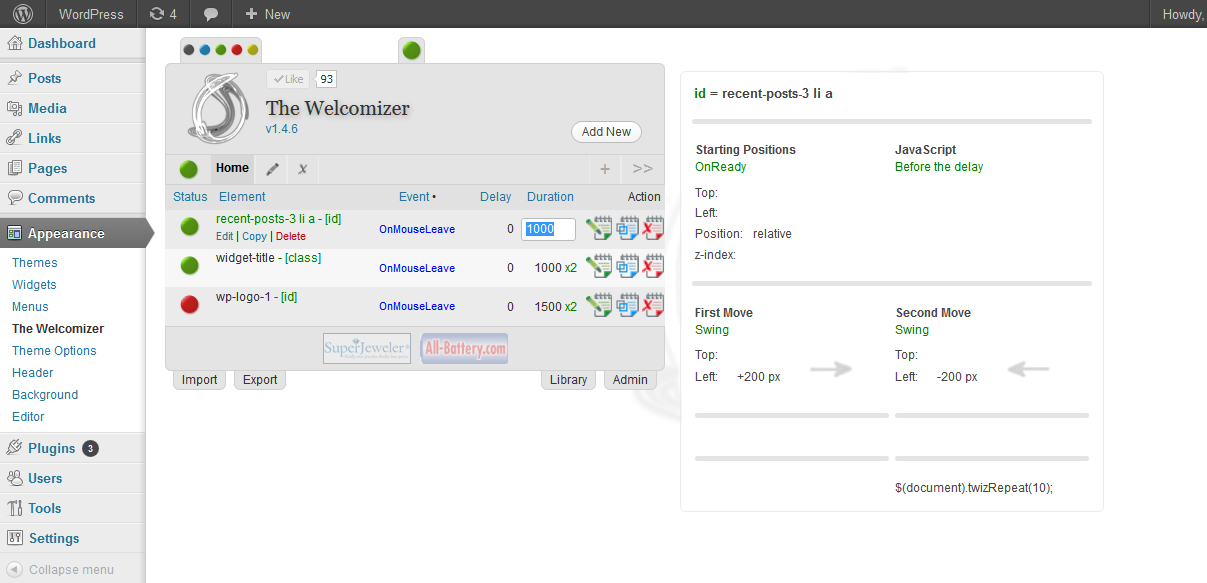
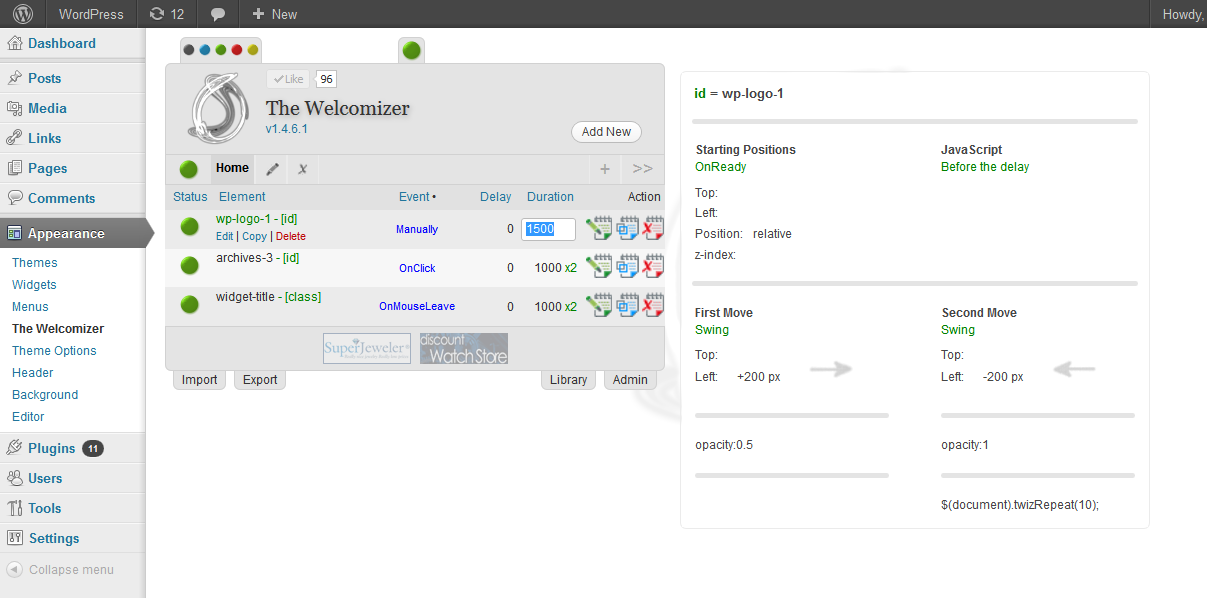
v1.4.6.1
git-svn-id: https://plugins.svn.wordpress.org/the-welcomizer/trunk@569406 b8457f37-d9ea-0310-8a92-e5e31aec5664

diff --git a/skins/blue/twiz-style.css b/skins/blue/twiz-style.css
@@ -1,5 +1,5 @@
 #wpbody-content {
-    width: 120% !important;
+    width: 150% !important;
 }
 #twiz_plugin {
     width: 98%;
@@ -81,7 +81,6 @@
 }
 #twiz_right_panel {
     min-height: 200px;
-    min-width: 415px;
     margin: 27px 0 0 15px;   
     color: #464646;
 }
@@ -656,6 +655,12 @@
 .twiz-input-large-z {
     z-index: 1;
 }
+.twiz-input-large-zz {
+    z-index: 2;
+}
+.twiz-input-large-zzz {
+    z-index: 3;
+}
 .twiz-input[type=text]:focus,
 .twiz-input-text[type=text]:focus,
 .twiz-input-small[type=text]:focus {
@@ -697,7 +702,6 @@ a.twiz-anim-link:hover ,
     margin-right: 5px;
 }
 .twiz-table-view {
-    width: 415px;
     padding: 10px;
     margin: 1px;
 }

diff --git a/skins/_default/twiz-style.css b/skins/_default/twiz-style.css
@@ -1,5 +1,5 @@
 #wpbody-content {
-    width: 120% !important;
+    width: 150% !important;
 }
 #twiz_plugin {
     width: 98%;
@@ -81,7 +81,6 @@
 }
 #twiz_right_panel {
     min-height: 200px;
-    min-width: 415px;
     margin: 27px 0 0 15px;   
     color: #464646;
 }
@@ -657,6 +656,12 @@
 .twiz-input-large-z {
     z-index: 1;
 }
+.twiz-input-large-zz {
+    z-index: 2;
+}
+.twiz-input-large-zzz {
+    z-index: 3;
+}
 .twiz-input[type=text]:focus,
 .twiz-input-text[type=text]:focus,
 .twiz-input-small[type=text]:focus {
@@ -698,7 +703,6 @@ a.twiz-anim-link:hover,
     margin-right: 5px;
 }
 .twiz-table-view {
-    width: 415px;
     padding: 10px;
     margin: 1px;
 }

diff --git a/skins/green/twiz-style.css b/skins/green/twiz-style.css
@@ -1,5 +1,5 @@
 #wpbody-content {
-    width: 120% !important;
+    width: 150% !important;
 }
 #twiz_plugin {
     width: 98%;
@@ -81,7 +81,6 @@
 }
 #twiz_right_panel {
     min-height: 200px;
-    min-width: 415px;
     margin: 27px 0 0 15px;   
     color: #464646;
 }
@@ -657,6 +656,12 @@
 .twiz-input-large-z {
     z-index: 1;
 }
+.twiz-input-large-zz {
+    z-index: 2;
+}
+.twiz-input-large-zzz {
+    z-index: 3;
+}
 .twiz-input[type=text]:focus,
 .twiz-input-text[type=text]:focus,
 .twiz-input-small[type=text]:focus {
@@ -698,7 +703,6 @@ a.twiz-anim-link:hover,
     margin-right: 5px;
 }
 .twiz-table-view {
-    width: 415px;
     padding: 10px;
     margin: 1px;
 }

diff --git a/skins/red/twiz-style.css b/skins/red/twiz-style.css
@@ -1,5 +1,5 @@
 #wpbody-content {
-    width: 120% !important;
+    width: 150% !important;
 }
 #twiz_plugin {
     width: 98%;
@@ -81,7 +81,6 @@
 }
 #twiz_right_panel {
     min-height: 200px;
-    min-width: 415px;
     margin: 27px 0 0 15px;   
     color: #464646;
 }
@@ -657,6 +656,12 @@
 .twiz-input-large-z {
     z-index: 1;
 }
+.twiz-input-large-zz {
+    z-index: 2;
+}
+.twiz-input-large-zzz {
+    z-index: 3;
+}
 .twiz-input[type=text]:focus,
 .twiz-input-text[type=text]:focus,
 .twiz-input-small[type=text]:focus {
@@ -698,7 +703,6 @@ a.twiz-anim-link:hover,
     margin-right: 5px;
 }
 .twiz-table-view {
-    width: 415px;
     padding: 10px;
     margin: 1px;
 }

diff --git a/skins/yellow/twiz-style.css b/skins/yellow/twiz-style.css
@@ -1,5 +1,5 @@
 #wpbody-content {
-    width: 120% !important;
+    width: 150% !important;
 }
 #twiz_plugin {
     width: 98%;
@@ -81,7 +81,6 @@
 }
 #twiz_right_panel {
     min-height: 200px;
-    min-width: 415px;
     margin: 27px 0 0 15px;   
     color: #464646;
 }
@@ -657,6 +656,12 @@
 .twiz-input-large-z {
     z-index: 1;
 }
+.twiz-input-large-zz {
+    z-index: 2;
+}
+.twiz-input-large-zzz {
+    z-index: 3;
+}
 .twiz-input[type=text]:focus,
 .twiz-input-text[type=text]:focus,
 .twiz-input-small[type=text]:focus
@@ -699,7 +704,6 @@ a.twiz-anim-link:hover,
     margin-right: 5px;
 }
 .twiz-table-view {
-    width: 415px;
     padding: 10px;
     margin: 1px;
 }

diff --git a/includes/twiz.class.php b/includes/twiz.class.php
@@ -453,8 +453,8 @@ class Twiz{
         $pluginDir = str_replace('/includes/','',$pluginDir);
 
         /* Twiz variable configuration */
-        $this->version    = '1.4.6';
-        $this->cssVersion = '1-25';
+        $this->version    = '1.4.6.1';
+        $this->cssVersion = '1-26';
         $this->dbVersion  = '2.71';
         $this->pluginUrl  = $pluginUrl;
         $this->pluginDir  = $pluginDir;
@@ -1803,7 +1803,7 @@ $("textarea[name^=twiz_options]").blur(function (){
         </select>
       </td></tr>            
         </table>
-<div class="twiz-wrap-input-large"><textarea onclick="textarea.expand(this)" rows="1" rows="3" onkeyup="textarea.expand(this)" WRAP=OFF class="twiz-input twiz-input-large" id="twiz_'.self::F_JAVASCRIPT.'" name="twiz_'.self::F_JAVASCRIPT.'" type="text" >'.$data[self::F_JAVASCRIPT].'</textarea></div>'.$this->getHtmlJSFeatures($id, 'javascript', $section_id).'</td>
+<div class="twiz-wrap-input-large"><textarea onclick="textarea.expand(this)" rows="1" rows="3" onkeyup="textarea.expand(this)" WRAP=OFF class="twiz-input twiz-input-large twiz-input-large-zzz" id="twiz_'.self::F_JAVASCRIPT.'" name="twiz_'.self::F_JAVASCRIPT.'" type="text" >'.$data[self::F_JAVASCRIPT].'</textarea></div>'.$this->getHtmlJSFeatures($id, 'javascript', $section_id).'</td>
 </tr>
 <tr><td colspan="2"><hr></td></tr>
 <tr><td valign="top">
@@ -1824,10 +1824,10 @@ $("textarea[name^=twiz_options]").blur(function (){
             <option value="-" '.$twiz_move_left_pos_sign_a['-'].'>-</option>
             </select><input class="twiz-input twiz-input-small" id="twiz_'.self::F_MOVE_LEFT_POS_A.'" name="twiz_'.self::F_MOVE_LEFT_POS_A.'" type="text" value="'.$data[self::F_MOVE_LEFT_POS_A].'" maxlength="5"> '.$this->getHtmlFormatList(self::F_MOVE_LEFT_POS_FORMAT_A, $data[self::F_MOVE_LEFT_POS_FORMAT_A]).'</td></tr><tr><td></td><td><a name="twiz_more_options_a" id="twiz_more_options_a"  class="twiz-more-configs">'.__('More Options', 'the-welcomizer').' &#187;</a></td></tr></table>
             <table class="twiz-table-more-options">
-                <tr><td><hr></td></tr><tr><td class="twiz-caption">'.__('Personalized options', 'the-welcomizer').'</td></tr><tr><td><div class="twiz-wrap-input-large"><textarea onclick="textarea.expand(this)" rows="1" onkeyup="textarea.expand(this)" WRAP=OFF class="twiz-input twiz-input-large twiz-input-large-z twiz-input" id="twiz_'.self::F_OPTIONS_A.'" name="twiz_'.self::F_OPTIONS_A.'" type="text" >'.$data[self::F_OPTIONS_A].'</textarea></div></td></tr>
+                <tr><td><hr></td></tr><tr><td class="twiz-caption">'.__('Personalized options', 'the-welcomizer').'</td></tr><tr><td><div class="twiz-wrap-input-large"><textarea onclick="textarea.expand(this)" rows="1" onkeyup="textarea.expand(this)" WRAP=OFF class="twiz-input twiz-input-large twiz-input-large-zzz" id="twiz_'.self::F_OPTIONS_A.'" name="twiz_'.self::F_OPTIONS_A.'" type="text" >'.$data[self::F_OPTIONS_A].'</textarea></div></td></tr>
                 <tr><td id="twiz_td_full_option_a" class="twiz-td-picklist twiz-float-left"><a id="twiz_choose_options_a" name="twiz_choose_options_a">'.__('Pick from List', 'the-welcomizer').' &#187;</a></td></tr>      
                 <tr><td><hr></td></tr>        
-                <tr><td class="twiz-caption">'.__('Extra JavaScript', 'the-welcomizer').'</td></tr><tr><td ><div class="twiz-wrap-input-large"><textarea onclick="textarea.expand(this)" rows="1" onkeyup="textarea.expand(this)" WRAP=OFF class="twiz-input-large twiz-input-large-z twiz-input" id="twiz_'.self::F_EXTRA_JS_A.'" name="twiz_'.self::F_EXTRA_JS_A.'" type="text">'.$data[self::F_EXTRA_JS_A].'</textarea></div>'.$this->getHtmlJSFeatures($id, 'javascript_a', $section_id).'</td></tr>
+                <tr><td class="twiz-caption">'.__('Extra JavaScript', 'the-welcomizer').'</td></tr><tr><td ><div class="twiz-wrap-input-large"><textarea onclick="textarea.expand(this)" rows="1" onkeyup="textarea.expand(this)" WRAP=OFF class="twiz-input twiz-input-large twiz-input-large-zz" id="twiz_'.self::F_EXTRA_JS_A.'" name="twiz_'.self::F_EXTRA_JS_A.'" type="text">'.$data[self::F_EXTRA_JS_A].'</textarea></div>'.$this->getHtmlJSFeatures($id, 'javascript_a', $section_id).'</td></tr>
         </table>
 </td>
 <td valign="top">    
@@ -1849,10 +1849,10 @@ $("textarea[name^=twiz_options]").blur(function (){
         </select><input class="twiz-input twiz-input-small" id="twiz_'.self::F_MOVE_LEFT_POS_B.'" name="twiz_'.self::F_MOVE_LEFT_POS_B.'" type="text" value="'.$data[self::F_MOVE_LEFT_POS_B].'" maxlength="5"> '.$this->getHtmlFormatList(self::F_MOVE_LEFT_POS_FORMAT_B, $data[self::F_MOVE_LEFT_POS_FORMAT_B]).'</td></tr><tr><td></td><td><a name="twiz_more_options_b" id="twiz_more_options_b" class="twiz-more-configs">'.__('More Options', 'the-welcomizer').' &#187;</a></td></tr>
         </table>
         <table class="twiz-table-more-options">
-            <tr><td><hr></td></tr><tr><td class="twiz-caption">'.__('Personalized options', 'the-welcomizer').'</td></tr><tr><td><div class="twiz-wrap-input-large"><textarea onclick="textarea.expand(this)" rows="1" onkeyup="textarea.expand(this)" WRAP=OFF class="twiz-input twiz-input-large" id="twiz_'.self::F_OPTIONS_B.'" name="twiz_'.self::F_OPTIONS_B.'" type="text">'.$data[self::F_OPTIONS_B].'</textarea></div></td></tr>
+            <tr><td><hr></td></tr><tr><td class="twiz-caption">'.__('Personalized options', 'the-welcomizer').'</td></tr><tr><td><div class="twiz-wrap-input-large"><textarea onclick="textarea.expand(this)" rows="1" onkeyup="textarea.expand(this)" WRAP=OFF class="twiz-input twiz-input-large twiz-input-large-zz" id="twiz_'.self::F_OPTIONS_B.'" name="twiz_'.self::F_OPTIONS_B.'" type="text">'.$data[self::F_OPTIONS_B].'</textarea></div></td></tr>
             <tr><td  id="twiz_td_full_option_b" class="twiz-td-picklist twiz-float-left"><a id="twiz_choose_options_b" name="twiz_choose_options_b">'.__('Pick from List', 'the-welcomizer').' &#187;</a></td></tr>     
             <tr><td ><hr></td></tr>
-            <tr><td  class="twiz-caption">'.__('Extra JavaScript', 'the-welcomizer').'</td></tr><tr><td ><div class="twiz-wrap-input-large"><textarea onclick="textarea.expand(this)" rows="1" onkeyup="textarea.expand(this)" WRAP=OFF class="twiz-input twiz-input-large" id="twiz_'.self::F_EXTRA_JS_B.'" name="twiz_'.self::F_EXTRA_JS_B.'" type="text" value="">'.$data[self::F_EXTRA_JS_B].'</textarea></div>'.$this->getHtmlJSFeatures($id, 'javascript_b', $section_id).'</td></tr>
+            <tr><td  class="twiz-caption">'.__('Extra JavaScript', 'the-welcomizer').'</td></tr><tr><td ><div class="twiz-wrap-input-large"><textarea onclick="textarea.expand(this)" rows="1" onkeyup="textarea.expand(this)" WRAP=OFF class="twiz-input twiz-input-large twiz-input-large-z" id="twiz_'.self::F_EXTRA_JS_B.'" name="twiz_'.self::F_EXTRA_JS_B.'" type="text" value="">'.$data[self::F_EXTRA_JS_B].'</textarea></div>'.$this->getHtmlJSFeatures($id, 'javascript_b', $section_id).'</td></tr>
         </table>
 </td></tr>
 <tr><td colspan="2"><hr></td></tr>

diff --git a/includes/twiz.ajax.class.php b/includes/twiz.ajax.class.php
@@ -79,8 +79,8 @@ class TwizAjax extends Twiz{
      twiz_view_id = "edit";
      $(this).fadeOut("fast");
      $("#twiz_container").css("display", "block");       
-     $("#twiz_container").slideToggle("fast");
      $("#twiz_container").html("");  
+     $("#twiz_container").slideToggle("fast");
         $.post(ajaxurl,  {
         "action": "twiz_ajax_callback",
         "twiz_action": "'.parent::ACTION_NEW.'",
@@ -866,8 +866,8 @@ class TwizAjax extends Twiz{
    $("#twiz_library_menu").attr({"class" : "twiz-menu twiz-display-none"});
    $("#twiz_admin_menu").attr({"class" : "twiz-menu twiz-display-none"});
    $("#twiz_container").css("display", "block");    
-   $("#twiz_container").slideToggle("fast"); 
    $("#twiz_container").html("");
+   $("#twiz_container").slideToggle("fast"); 
    $("#twiz_library_upload").fadeOut("fast");
    $.post(ajaxurl, {
         "action": "twiz_ajax_callback",
@@ -1121,8 +1121,8 @@ class TwizAjax extends Twiz{
       $("#twiz_add_sections").hide();
       twizSwitchFooterMenu();
       $("#twiz_container").css("display", "block");    
-      $("#twiz_container").slideToggle("fast"); 
       $("#twiz_container").html("");
+      $("#twiz_container").slideToggle("fast"); 
       $.post(ajaxurl, {
         "action": "twiz_ajax_callback",
         "twiz_nonce": "'.$this->nonce.'", 
@@ -1148,8 +1148,8 @@ class TwizAjax extends Twiz{
   }  
   function twizPostLibrary(){
       $("#twiz_container").css("display", "block");    
-      $("#twiz_container").slideToggle("fast"); 
       $("#twiz_container").html("");
+      $("#twiz_container").slideToggle("fast"); 
       $.post(ajaxurl, {
         "action": "twiz_ajax_callback",
         "twiz_nonce": "'.$this->nonce.'", 

diff --git a/twiz-index.php b/twiz-index.php
@@ -1,7 +1,7 @@
 <?php
 /*
 Plugin Name: The Welcomizer
-Version: 1.4.6
+Version: 1.4.6.1
 Plugin URI: http://www.sebastien-laframboise.com/wordpress/plugins-wordpress/the-welcomizer
 Description: This plugin allows you to animate your blog using jQuery effects. (100% AJAX) + .js/.css Includer.
 Author: S&#233;bastien Laframboise
